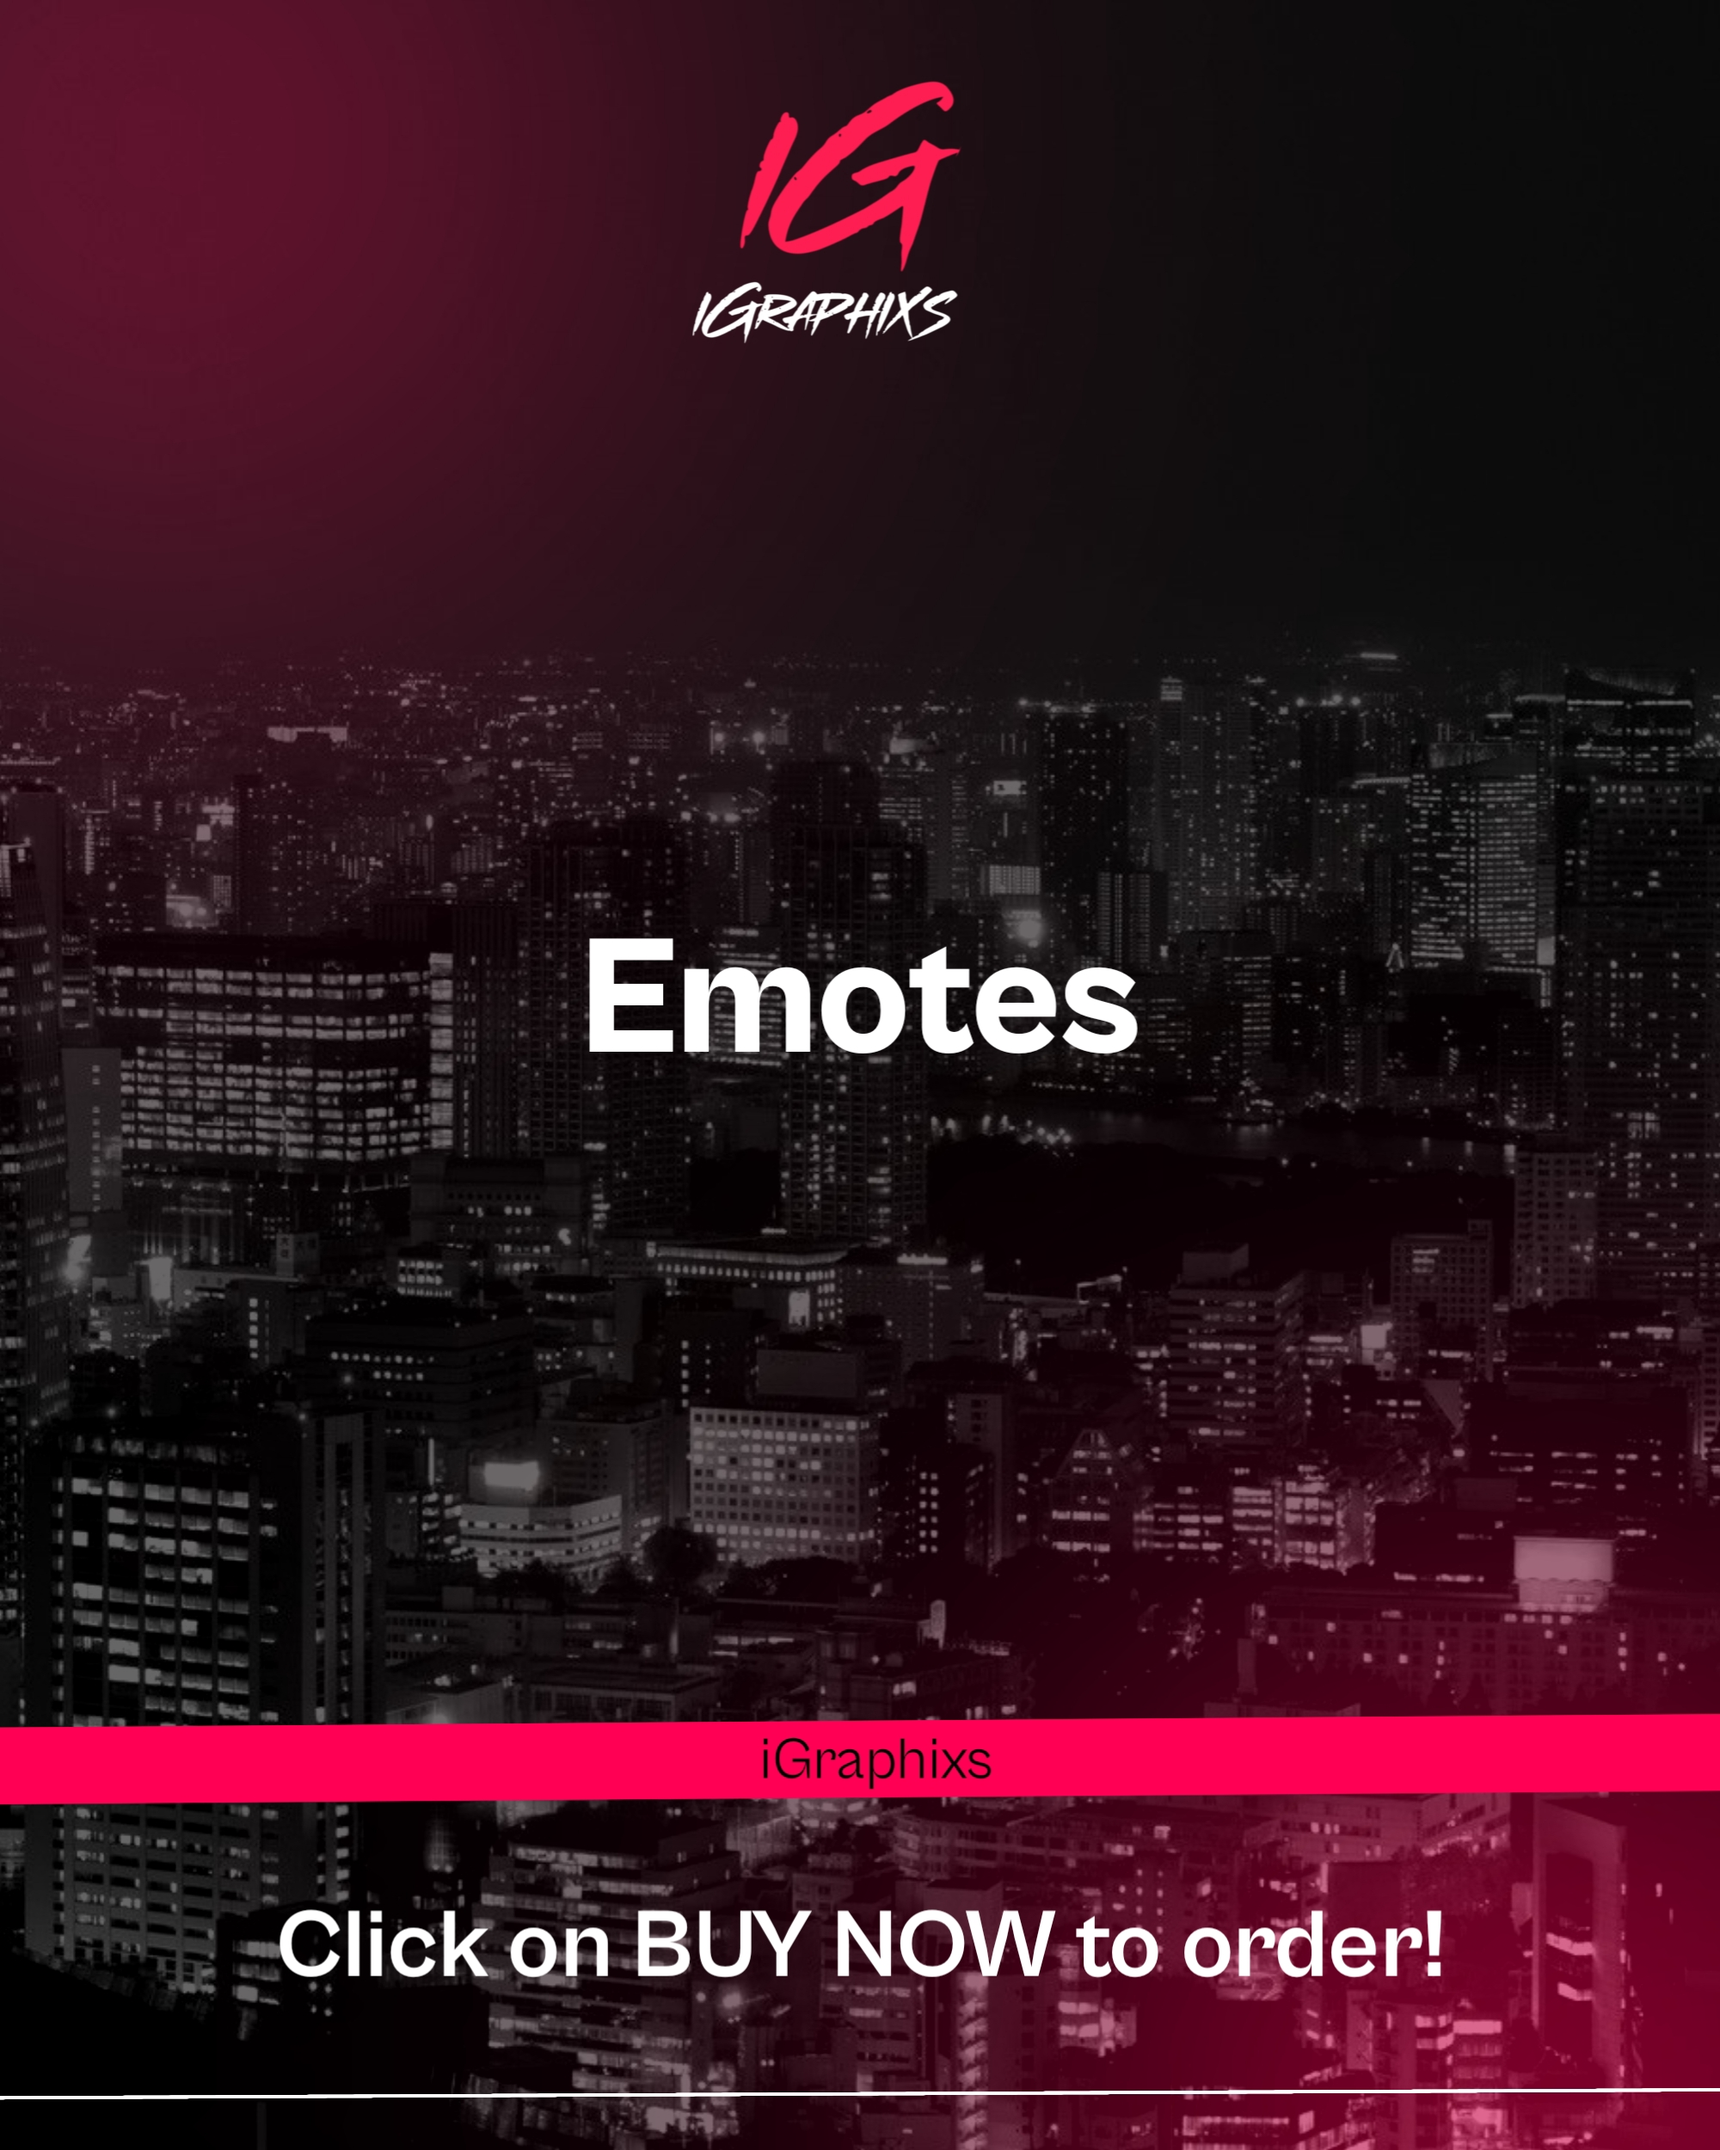
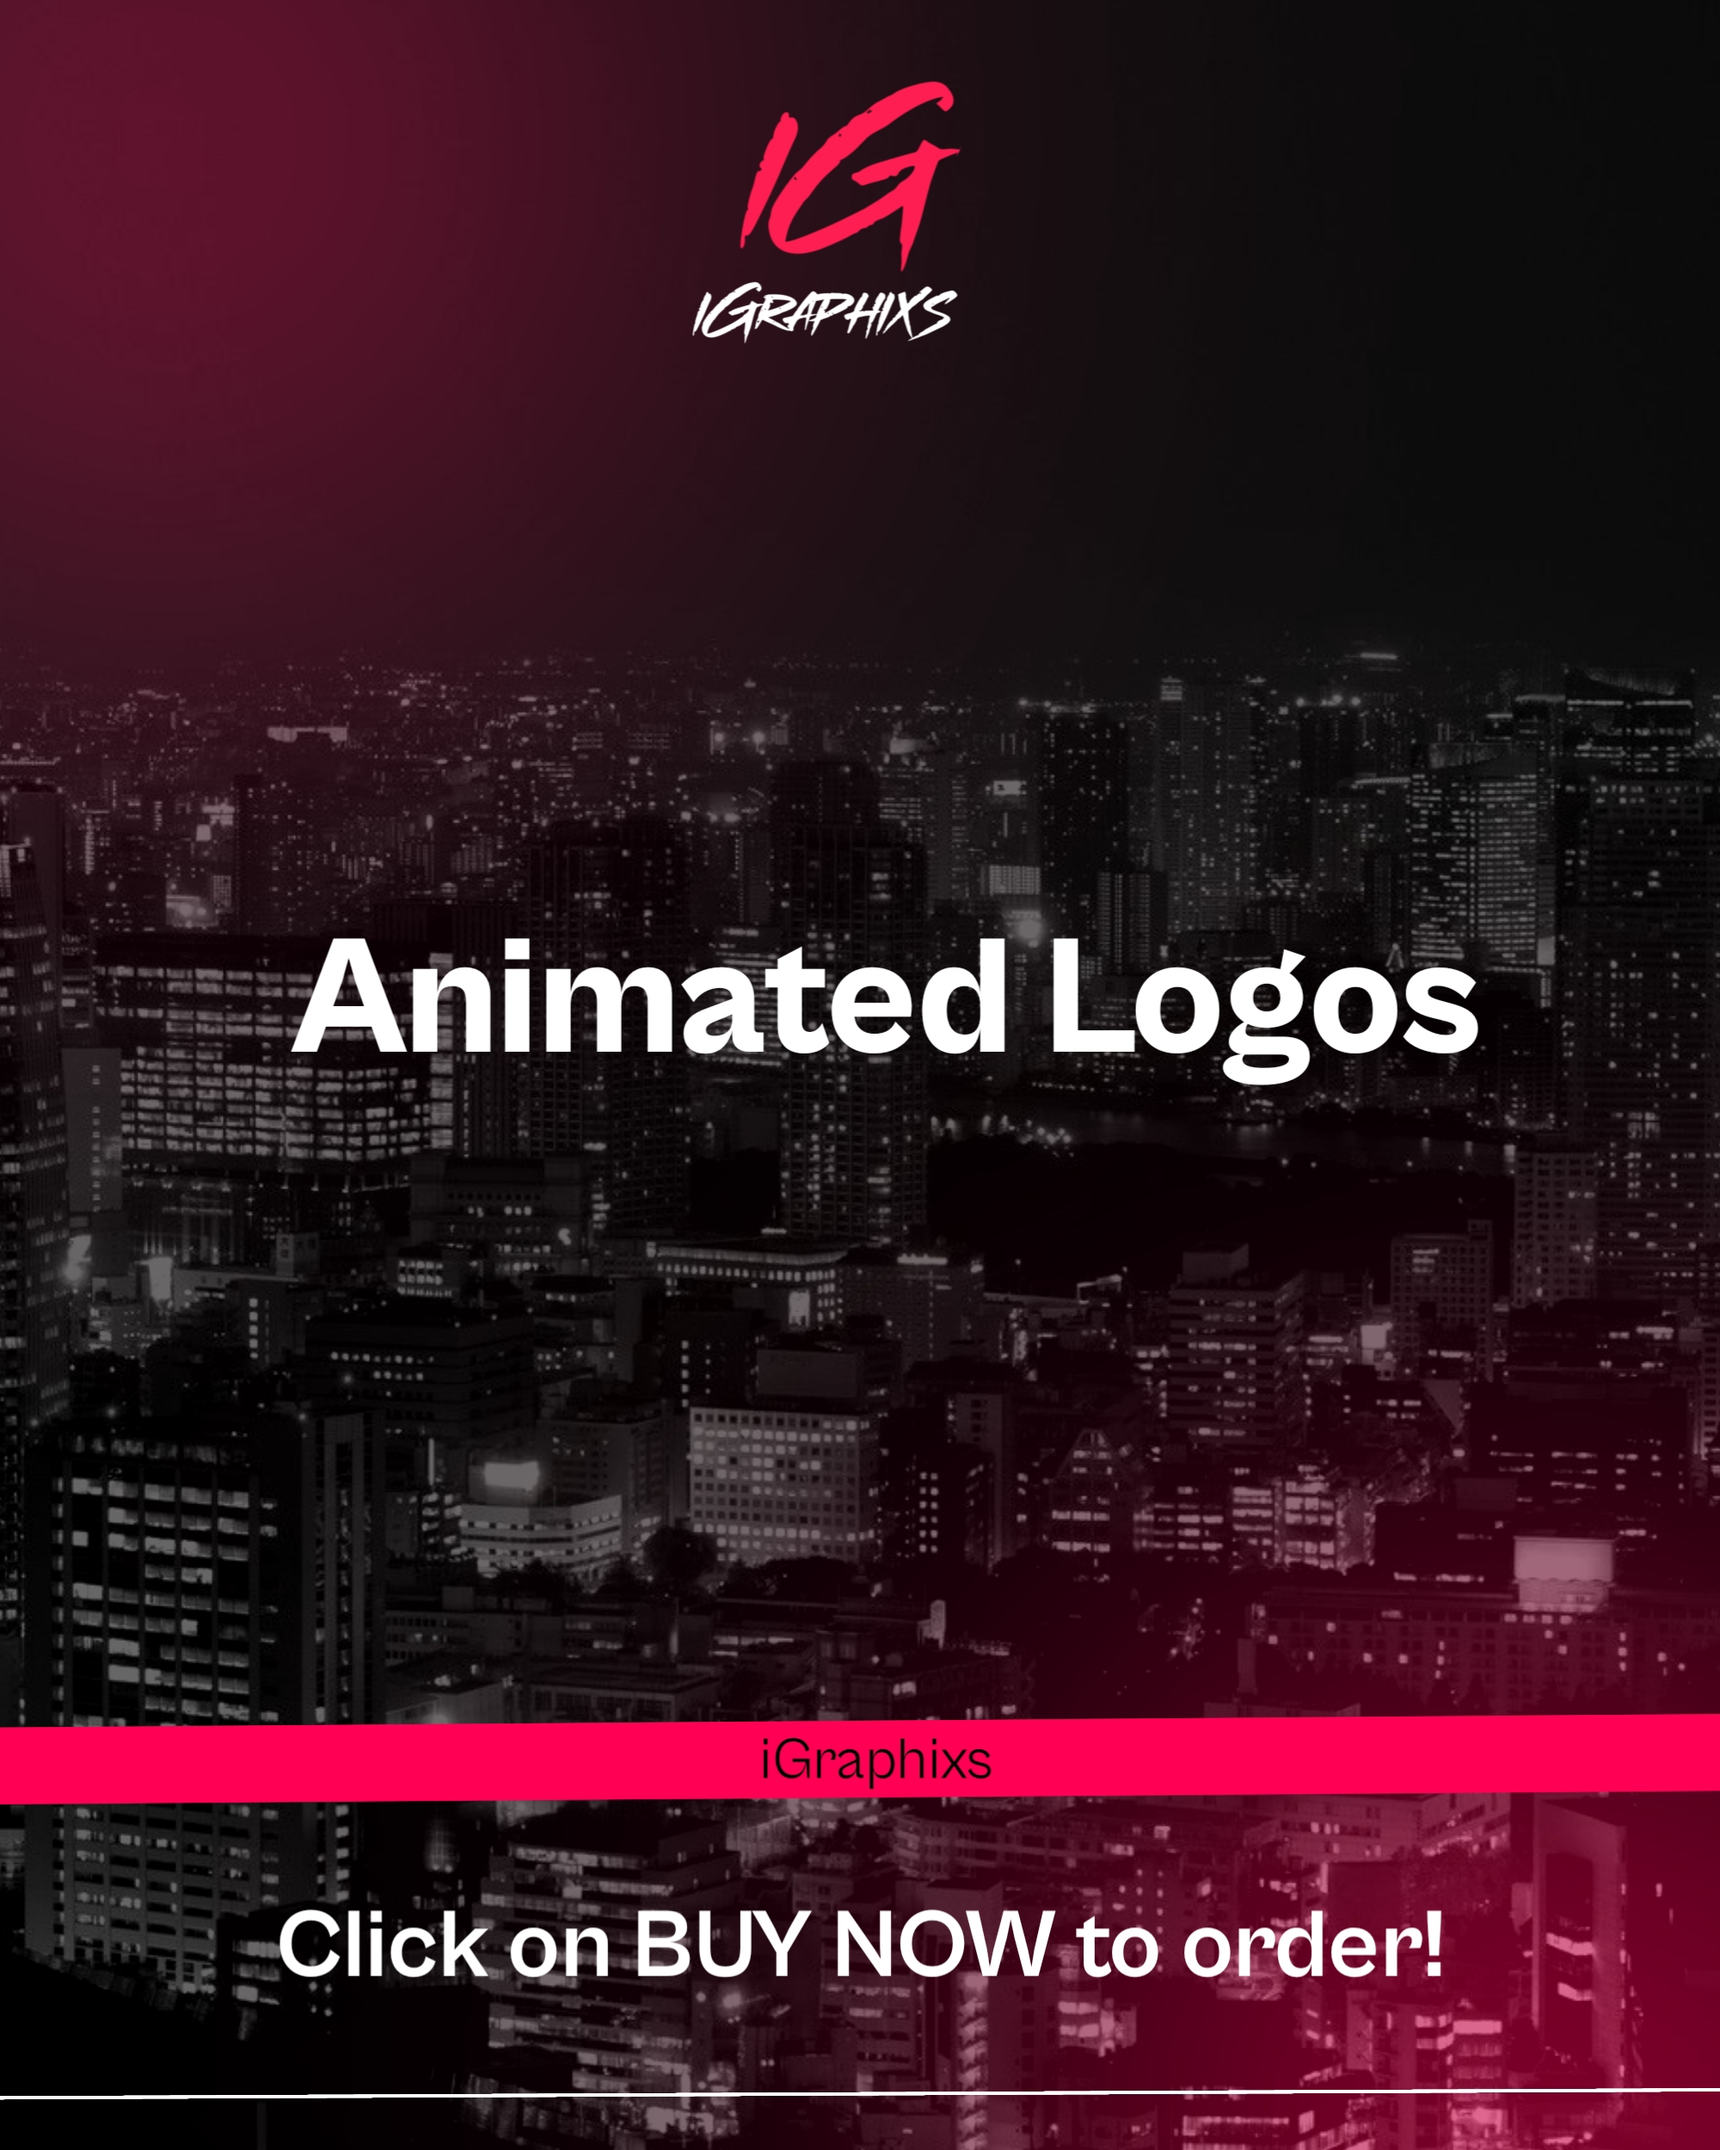
final changes for image

Changed region(s): [[0.155, 0.4368, 0.868, 0.5304]]

diff --git a/src/constants/price.js b/src/constants/price.js
@@ -13,68 +13,68 @@ import {Vector} from "../assets/index.js";
 export const priceData = [
     {
         id: 1,
-        name:"Mascot logo",
+        name:"Animated",
         img:Animated,
         
     },
     {
         id: 2,
-        name:"Mascot logo",
-        img:Animated,
+        name:"Banner Designs",
+        img:banner1,
         
     },
     {
         id: 3,
-        name:"Mascot logo",
-        img:Animated,
+        name:"Concept logo",
+        img:Concept,
         
     },
     {
         id: 4,
-        name:"Mascot logo",
-        img:Animated,
+        name:"Custom Emotes",
+        img:emotes1,
         
     },
     {
         id: 5,
-        name:"Mascot logo",
-        img:Animated,
+        name:"Illustration",
+        img:illustration,
         
     },
     {
         id: 6,
-        name:"Mascot logo",
-        img:Animated,
+        name:"Custom Jersey",
+        img:Jersey,
         
     },
     {
         id: 7,
         name:"Mascot logo",
-        img:Animated,
+        img:Mascot,
         
     },
     {
         id: 8,
-        name:"Mascot logo",
-        img:Animated,
+        name:"Poster Design",
+        img:Poster,
         
     },
     {
         id: 9,
-        name:"Mascot logo",
-        img:Animated,
+        name:"Stream Packages",
+        img:Stream,
         
     },
     {
         id: 10,
-        name:"Mascot logo",
-        img:Animated,
+        name:"Thumbnail Designs",
+        img:Thumbnail,
         
     },
     {
         id: 11,
-        name:"Mascot logo",
-        img:Animated,
+        name:"Vector logo",
+        img:Vector,
         
     },
 ];
